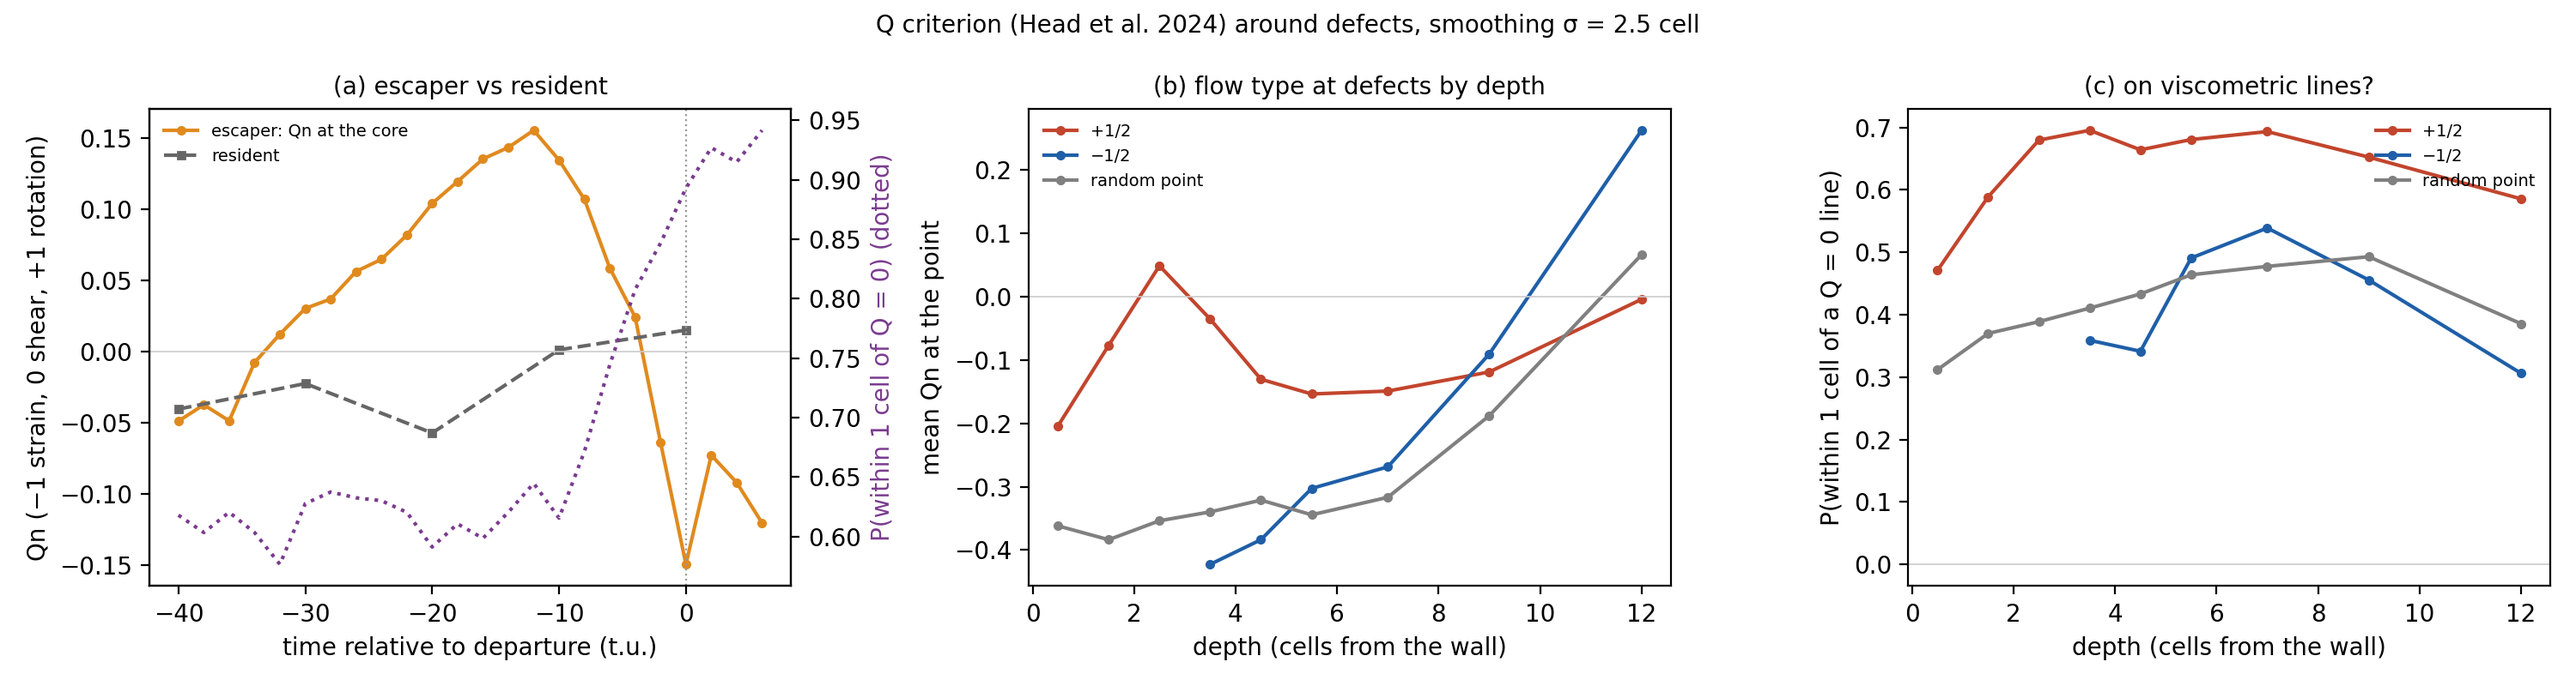
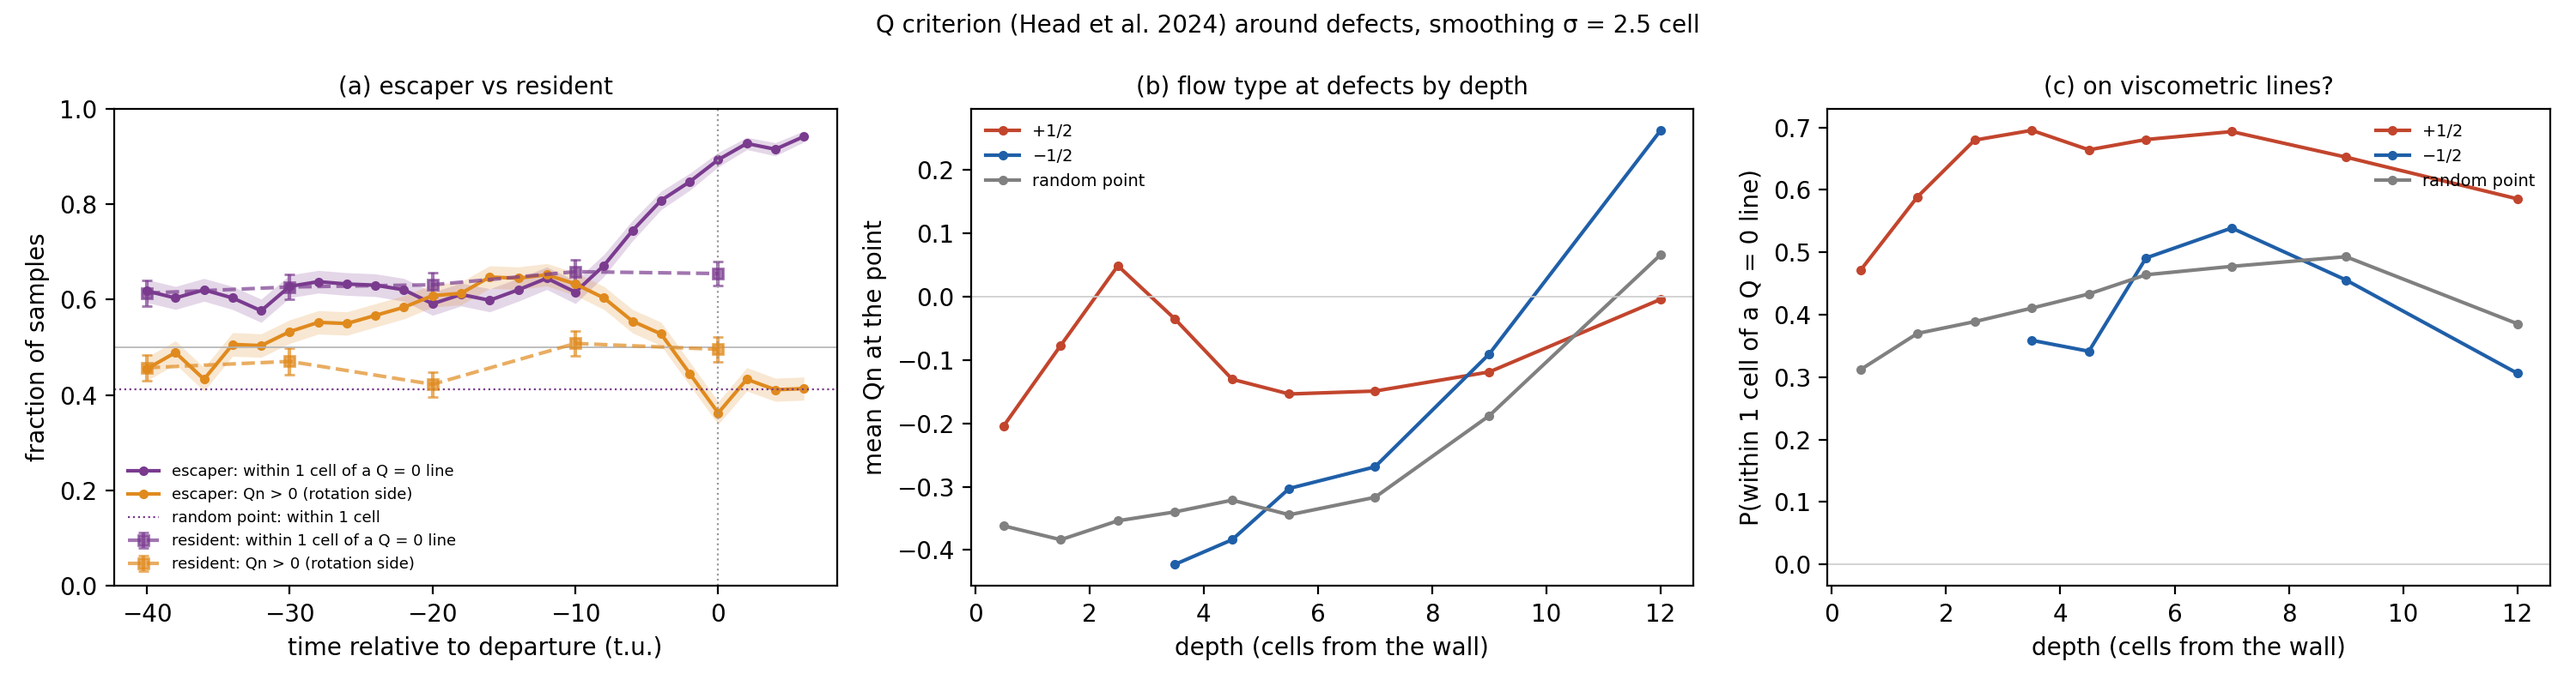
Q-criterion panel (a) redrawn as per-event fractions; viscometric-line text fixed; overnight analysis script
- qcrit.py: REPLOT mode; panel (a) shows fraction within 1 cell of a Q=0 line and fraction with Qn>0 (escaper vs resident) instead of the misleading mean Qn
- Sec 7 text: distance-to-line criterion, 1-cell tolerance justified by the tracker grid, run-up as a lean to the rotation side; caption rewritten
- Presentation slide wording; runs/overnight_analysis.sh; tiltlaw.py OUT env

diff --git a/reports/presentation/index.html b/reports/presentation/index.html
@@ -165,8 +165,8 @@
   <h2>Landing on viscometric lines (Head et al. 2024)</h2>
   <img class="fig" src="figs/fig_qcrit_ff36s25.png" alt="Q criterion">
   <ul>
-    <li>MPCD reproduces it: bulk +½ on 𝒬 = 0 lines, −½ in rotation-dominated cores</li>
-    <li>Escapers pass a rotation-dominated phase (one-sided lobe), then land on a 𝒬 = 0 line: 89% at departure</li>
+    <li>MPCD reproduces it: bulk +½ on 𝒬 = 0 lines, −½ lean to rotation-dominated regions</li>
+    <li>Escapers lean to the rotation side during the run-up (one-sided lobe), then land on a 𝒬 = 0 line: 60% → 89% within one cell at departure (bulk +½: 63%)</li>
   </ul>
 </section>
 

diff --git a/reports/presentation/publish.html b/reports/presentation/publish.html
@@ -159,8 +159,8 @@
   <h2>Landing on viscometric lines (Head et al. 2024)</h2>
   <img class="fig" src="figs/fig_qcrit_ff36s25.png" alt="Q criterion">
   <ul>
-    <li>MPCD reproduces it: bulk +½ on 𝒬 = 0 lines, −½ in rotation-dominated cores</li>
-    <li>Escapers pass a rotation-dominated phase (one-sided lobe), then land on a 𝒬 = 0 line: 89% at departure</li>
+    <li>MPCD reproduces it: bulk +½ on 𝒬 = 0 lines, −½ lean to rotation-dominated regions</li>
+    <li>Escapers lean to the rotation side during the run-up (one-sided lobe), then land on a 𝒬 = 0 line: 60% → 89% within one cell at departure (bulk +½: 63%)</li>
   </ul>
 </section>
 

diff --git a/reports/master/theory/energetics/qcrit.py b/reports/master/theory/energetics/qcrit.py
@@ -67,9 +67,12 @@ def one(run):
     return out
 if __name__ == "__main__":
     tag = sys.argv[1]; runs = [os.path.abspath(r) for r in sys.argv[2:]]
-    with Pool(min(12, len(runs))) as pool: res = pool.map(one, runs, chunksize=1)
-    a = np.array(sum(res, []), dtype=object); np.save(os.path.join(H, f"qcrit_{tag}.npy"), a, allow_pickle=True)
-    np.save(os.path.join(H, f"qcrit_{tag}_runs.npy"), np.array([(r, i) for r, o in zip(runs, res) for i in range(len(o))], dtype=object), allow_pickle=True)   # run of each row (for the region split)
+    if os.environ.get("REPLOT"):   # redraw from the saved samples (REPLOT=1 SIGMA=2.5 qcrit.py TAG)
+        a = np.load(os.path.join(H, f"qcrit_{tag}.npy"), allow_pickle=True)
+    else:
+      with Pool(min(12, len(runs))) as pool: res = pool.map(one, runs, chunksize=1)
+      a = np.array(sum(res, []), dtype=object); np.save(os.path.join(H, f"qcrit_{tag}.npy"), a, allow_pickle=True)
+      np.save(os.path.join(H, f"qcrit_{tag}_runs.npy"), np.array([(r, i) for r, o in zip(runs, res) for i in range(len(o))], dtype=object), allow_pickle=True)   # run of each row (for the region split)
     kind = a[:, 0].astype(str); lag = a[:, 2].astype(int); d, ct, qn, qd, dq = (a[:, i].astype(float) for i in range(3, 8))
     m_ = lambda x: np.nanmean(x); md = lambda x: np.nanmedian(x); se = lambda x: np.nanstd(x) / np.sqrt(max(np.isfinite(x).sum(), 1))
     L = [f"Q criterion, smoothing sigma {SIG} cell(s). Qn = (|O|^2-|E|^2)/(|O|^2+|E|^2) at the point; d_Q = distance to the nearest Q = 0 line; P(d_Q<1) = fraction within 1 cell",
@@ -97,13 +100,23 @@ if __name__ == "__main__":
     for i in range(len(hb) - 1): L.append(f"  {hb[i]}-{hb[i+1]}: {prof['hp'][i]:.3f}  {prof['hm'][i]:.3f}  {prof['hrnd'][i]:.3f}   (+1/2 / random {prof['hp'][i] / max(prof['hrnd'][i], 1e-9):.2f}, -1/2 / random {prof['hm'][i] / max(prof['hrnd'][i], 1e-9):.2f})")
     print("\n".join(L)); open(os.path.join(H, f"qcrit_{tag}.txt"), "w").write("\n".join(L) + "\n")
     fig, ax = plt.subplots(1, 3, figsize=(15, 4)); tl = 2 * np.array(LAGS)
-    ax[0].plot(tl, [m_(qn[(kind == "esc") & (lag == l)]) for l in LAGS], "-o", ms=3, color="#e08a1e", label="escaper: Qn at the core")
-    cl = sorted(set(lag[kind == "ctl"])); ax[0].plot(2 * np.array(cl), [m_(qn[(kind == "ctl") & (lag == l)]) for l in cl], "--s", ms=3, color="0.4", label="resident")
-    ax0b = ax[0].twinx(); ax0b.plot(tl, [np.mean(dq[(kind == "esc") & (lag == l)] < 1) for l in LAGS], ":", color="#7a3b8f"); ax0b.set_ylabel("P(within 1 cell of Q = 0) (dotted)", color="#7a3b8f")
-    ax[0].set_xlabel("time relative to departure (t.u.)"); ax[0].set_ylabel("Qn (−1 strain, 0 shear, +1 rotation)"); ax[0].axvline(0, color="0.6", lw=0.8, ls=":"); ax[0].set_title("(a) escaper vs resident", fontsize=10)
+    # (a) per-event fractions, not the mean Qn: Qn is broadly spread around 0 (median |Qn| 0.3-0.4), so its mean cancels and misleads (user, 2026-10-13).
+    #     purple: fraction within 1 cell of a Q = 0 line (the viscometric constraint); orange: fraction with Qn > 0 (rotation side). Solid escaper, dashed resident; bands = binomial s.e.
+    cl = sorted(set(lag[kind == "ctl"])); LG = [l for l in LAGS if ((kind == "esc") & (lag == l)).any()]; tl = 2 * np.array(LG)
+    def frac(sel, f):
+        x = f(sel); n = sel.sum(); p = x.sum() / max(n, 1); return p, np.sqrt(p * (1 - p) / max(n, 1))
+    for nm, fn_, col in (("within 1 cell of a Q = 0 line", lambda s_: dq[s_] < 1, "#7a3b8f"), ("Qn > 0 (rotation side)", lambda s_: qn[s_] > 0, "#e08a1e")):
+        E = np.array([frac((kind == "esc") & (lag == l), fn_) for l in LG]); C = np.array([frac((kind == "ctl") & (lag == l), fn_) for l in cl])
+        ax[0].plot(tl, E[:, 0], "-o", ms=3, color=col, label=f"escaper: {nm}"); ax[0].fill_between(tl, E[:, 0] - E[:, 1], E[:, 0] + E[:, 1], color=col, alpha=0.2, lw=0)
+        ax[0].errorbar(2 * np.array(cl), C[:, 0], yerr=C[:, 1], fmt="--s", ms=4, color=col, alpha=0.7, capsize=2, label=f"resident: {nm}")
+    ax[0].axhline(np.mean(dq[kind == "rnd"] < 1), color="#7a3b8f", lw=0.8, ls=":", label="random point: within 1 cell")
+    ax[0].axhline(0.5, color="0.7", lw=0.6); ax[0].set_ylim(0.0, 1.0)
+    ax[0].set_xlabel("time relative to departure (t.u.)"); ax[0].set_ylabel("fraction of samples"); ax[0].axvline(0, color="0.6", lw=0.8, ls=":"); ax[0].set_title("(a) escaper vs resident", fontsize=10)
     for kd, nm, col in (("p", "+1/2", "#c2452d"), ("m", "−1/2", "#1f5fa8"), ("rnd", "random point", "0.5")):
         P_ = np.array(prof[kd]); ax[1].plot(P_[:, 0], P_[:, 1], "-o", ms=3, color=col, label=nm); ax[2].plot(P_[:, 0], P_[:, 3], "-o", ms=3, color=col, label=nm)
     ax[1].set_xlabel("depth (cells from the wall)"); ax[1].set_ylabel("mean Qn at the point"); ax[1].set_title("(b) flow type at defects by depth", fontsize=10)
     ax[2].set_xlabel("depth (cells from the wall)"); ax[2].set_ylabel("P(within 1 cell of a Q = 0 line)"); ax[2].set_title("(c) on viscometric lines?", fontsize=10)
-    for a_ in ax: a_.axhline(0, color="0.8", lw=0.6); a_.legend(fontsize=7, frameon=False)
+    for a_ in ax[1:]: a_.axhline(0, color="0.8", lw=0.6)
+    ax[0].legend(fontsize=6.5, frameon=False, loc="lower left", ncol=1)
+    for a_ in ax[1:]: a_.legend(fontsize=7, frameon=False)
     fig.suptitle(f"Q criterion (Head et al. 2024) around defects, smoothing σ = {SIG:g} cell", fontsize=10); fig.tight_layout(); fig.savefig(os.path.join(H, f"fig_qcrit_{tag}.png"), dpi=200)

diff --git a/reports/theory_report/sec_escape_draft.tex b/reports/theory_report/sec_escape_draft.tex
@@ -71,12 +71,19 @@ Untilting swings the lobes so that the wall-side lobe leaves the wall and recove
 smoothed over 2.5 cells, below which MPCD noise fills the cavity with $\mathcal Q=0$ lines):
 \begin{itemize}
   \item MPCD reproduces their constraint. Bulk $+\half$ sit closer to $\mathcal Q=0$ lines than random points (median distance 0.85 vs 1.38 cells; large distances several times rarer).
-        Bulk $-\half$ sit in rotation-dominated regions ($\mathcal Q_n=+0.26$, median distance 2.2 cells), away from the lines. Wall $+\half$ also prefer the lines (48--72\% within 1 cell vs 30--40\% for random points).
-  \item Escapers land on a $\mathcal Q=0$ line as they leave: about 60\% within 1 cell until $-10$\,t.u.\ (residents 61--66\%), 89\% at departure and 91\% at $+4$\,t.u.
-        Before that they pass through a rotation-dominated phase ($\mathcal Q_n=+0.10$ and $+0.13\pm0.02$ at $-20$ and $-10$\,t.u., residents $-0.06$ and 0.00), the one-sided lobe seen above.
+        Bulk $-\half$ lean to rotation-dominated regions (mean $\mathcal Q_n=+0.26$ deep in the bulk, median distance 2.2 cells), away from the lines. Wall $+\half$ also prefer the lines (48--72\% within 1 cell vs 30--40\% for random points).
+  \item Escapers land on a $\mathcal Q=0$ line as they leave (Fig.~\ref{fig:qcrit}a, purple). About 60\% are within one cell of a line until $-10$\,t.u., as residents (61--66\%);
+        then the fraction rises to 89\% at departure and 91--94\% at $+4$ to $+6$\,t.u.\ (median distance 0.25 cells). One cell is the natural tolerance: the tracker places defects on the cell grid (whole cells, occasionally half or sixth cells
+        from averaging a cluster), and the line itself is located between cells of opposite sign. This is tighter than free bulk $+\half$ (63\%),
+        so it is not just the defect entering the bulk.
+  \item The criterion is the distance to the nearest line, not the value of $\mathcal Q_n$ at the core. $\mathcal Q_n$ is broadly spread at every lag (median $|\mathcal Q_n|$ 0.3--0.4, also
+        for residents), because it changes sign within about a cell across a line: an escaper 0.25 cells from a line still has $|\mathcal Q_n|\approx0.4$ at its core. At departure it sits
+        on the strain side of the line (64\% have $\mathcal Q_n<0$), as expected for the extensional flow along its jet.
+  \item Before departure the escaper leans to the rotation side (Fig.~\ref{fig:qcrit}a, orange): 61--65\% of escapers have $\mathcal Q_n>0$ from $-20$ to $-10$\,t.u., against 42--51\% of residents
+        and 45\% of escapers at $-40$\,t.u. This is a shift of a broad distribution, not a rotation-dominated state; it matches the one-sided vortex lobe seen above.
 \end{itemize}
-In Head et al.'s language, an escape is the wall $+\half$ regaining the viscometric constraint of a free $+\half$. (The time course of $\mathcal Q_n$ depends on the smoothing scale;
-the landing on $\mathcal Q=0$ at departure does not.)
+In Head et al.'s language, an escape is the wall $+\half$ regaining the viscometric constraint of a free $+\half$. (The sizes of the $\mathcal Q_n$ shifts depend on the smoothing scale;
+the landing on a $\mathcal Q=0$ line at departure does not.)
 
 \begin{figure}[H]\centering
 \includegraphics[width=\textwidth]{fig_vortdef_ff36.png}
@@ -86,8 +93,9 @@ wall-side and bulk-side vortex lobes relative to a free $+\half$. (c) All $+\hal
 
 \begin{figure}[H]\centering
 \includegraphics[width=\textwidth]{fig_qcrit_ff36s25.png}
-\caption{$\mathcal Q$ criterion around defects (flow smoothed over 2.5 cells). (a) Escaper vs resident: normalised $\mathcal Q_n=(\|\Omega\|^2-\|E\|^2)/(\|\Omega\|^2+\|E\|^2)$ at the core
-and the fraction within one cell of a $\mathcal Q=0$ line. (b) $\mathcal Q_n$ at $\pm\half$ and random points by depth. (c) Fraction within one cell of a $\mathcal Q=0$ line.}\label{fig:qcrit}
+\caption{$\mathcal Q$ criterion around defects (flow smoothed over 2.5 cells; $\mathcal Q_n=(\|\Omega\|^2-\|E\|^2)/(\|\Omega\|^2+\|E\|^2)$, $-1$ pure strain, 0 shear, $+1$ pure rotation).
+(a) Escapers (solid, 411 events; bands: standard error) and residents (dashed) aligned on departure: fraction within one cell of a $\mathcal Q=0$ line (purple; dotted: random points) and
+fraction with $\mathcal Q_n>0$ at the core (orange). (b) Mean $\mathcal Q_n$ at $\pm\half$ and random points by depth. (c) Fraction within one cell of a $\mathcal Q=0$ line by depth.}\label{fig:qcrit}
 \end{figure}
 
 \paragraph{Force balance.} Per frame, we fitted the escaper's inward velocity as $v_\mathrm{in}=\alpha\,u_\mathrm{jet,in}+\beta\,u_\mathrm{ring}+\mu_n F_0+c$

diff --git a/reports/master/theory/energetics/tiltlaw.py b/reports/master/theory/energetics/tiltlaw.py
@@ -33,7 +33,7 @@ if __name__ == "__main__":
     for key in sorted(G):
         S = np.array([r[2:10] for r in G[key]], float); m = S.mean(0); e = S.std(0) / np.sqrt(max(len(S) - 1, 1)); ac = np.degrees(np.arccos(1 / key[1])) if key[1] >= 1 else np.nan
         L.append(f"{key[0]:2d}  {key[1]:3.1f} | {len(S)} | {m[0]:5.2f}±{e[0]:.2f} ({2 * key[0] - 2}) | {m[1]:+.2f}±{e[1]:.2f} | {m[2]:5.1f} / {m[3]:5.1f} ± {e[3]:.1f} | {ac:5.1f} | {m[4]:.2f} | {m[5]:.3f} | {m[6]:.3f} | {m[7]:.2f}")
-    print("\n".join(L)); open(os.path.join(H, "tiltlaw.txt"), "w").write("\n".join(L) + "\n")
+    print("\n".join(L)); open(os.path.join(H, os.environ.get("OUT", "tiltlaw.txt")), "w").write("\n".join(L) + "\n")
     fig, ax = plt.subplots(1, 3, figsize=(14, 4)); lx = np.linspace(1.0, 6.5, 200)
     ax[0].plot(lx, np.degrees(np.arccos(1 / lx)), "k-", label="arccos(1/λ)")
     for kk, mk, col in ((4, "s", "#1f5fa8"), (6, "o", "#c2452d"), (8, "^", "#2a7a3b")):

diff --git a/RESEARCH.md b/RESEARCH.md
@@ -1664,3 +1664,10 @@ Wall −1/2 in time bins 0–20 / 20–100 / 100–300 / 300–700 / 700–1500 
 - (later, user: "λ part hard to follow, reads as if something is wrong but doesn't matter") Rewrote the Sec 7 λ-test paragraph as prediction → confirmed (rates) → refill slowed by the same gate → wall count barely moves → "gate" interpretation; compared λ 2 vs 4 (λ 1.2 set aside as not clean: circle coherence fails there). Rewrote the Sec 5 low-λ "possible link" bullet: tilt alone changes rates (λ test), so the circle breakdown is more likely coherence loss with escapes as the route; ordering still unresolved. Abstract wording adjusted to match.
 - (later, user: the arccos-correction part was confusing) Restructured Sec 5 after the flat-wall theory: "The mechanism in MPCD" (director rotation, tilt = 2× rotation) → tilt law across λ → "The last few degrees": residual +3.0/+1.2/−0.7/−2.5° at λ 2/3/4/6 (falls with λ, changes sign), three candidates with verdicts (boundary layer absent, +16° predicted; order-dependent alignment ±2–3°, not the trend; splay≠bend +2–3° at λ 2 and 4, explains λ 2 only) → bottom line → other caveats. Old splay≠bend table and "Not settled" list folded in. Abstract, Supported row and open item (iii) updated (boundary layer no longer credited). Note: energetics/tiltlaw.txt now holds the lamsize/lowlam-style rows; the λ 2–6 table lives in this file (2026-10-12 ~14:40).
 - (later) fig_perlength redrawn (user: grey bands unclear): colour = q bin, channel as a diamond at an extra 'channel' x position in (a,b) and at q 0.031 in (c), elongated vs circle-like in (c); REPLOT=1 mode in perlength.py; caption rewritten.
+
+### 2026-10-13 ~19:25 — Overnight (user going home)
+- Chain (detached, survives the session): lamsize 12/18 at 19:20 → channel_narrow (16) → channel_qscan (6) → channel_mixed (10) → channel_mixedW (12), 14 slots; channel_long (2, L768) until ~19:00 Oct 14.
+- runs/overnight_analysis.sh (detached, nice 19, log runs/overnight_analysis.log): per finished set → energetics/tiltlaw_lamsize.txt; channel/channel_narrow.txt, current_narrow.txt, channel_qscan.txt, current_qscan.txt, current_mixed.txt, current_mixedW.txt. tiltlaw.py now takes OUT env (so tiltlaw.txt is not overwritten again).
+- On resume: read these outputs; lamsize → λ threshold vs R/ℓa; qscan → nucleation vs bulk charge; mixed → capacitor current.
+- (later) fig_qcrit_ff36s25 panel (a) redrawn (user: mean Qn misleading): per-event fractions — within 1 cell of a Q=0 line and Qn>0, escaper vs resident, s.e. bands, random baseline; REPLOT=1 mode in qcrit.py. Text: mean Qn ~0 for residents is cancellation (median |Qn| 0.31); escapers at departure 89% within 1 cell but |Qn|≈0.43, strain side (64% Qn<0); run-up 'rotation-dominated phase' reworded as a shift (61–65% Qn>0 vs 42–51%).
+  1-cell tolerance justified in text: tracker positions on the cell grid (20848 of ~22k samples at integer positions in fineflow/eps1.0_s1).
